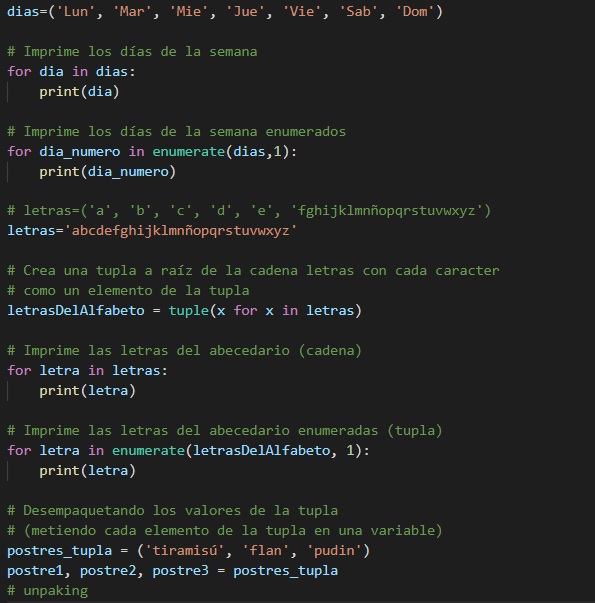
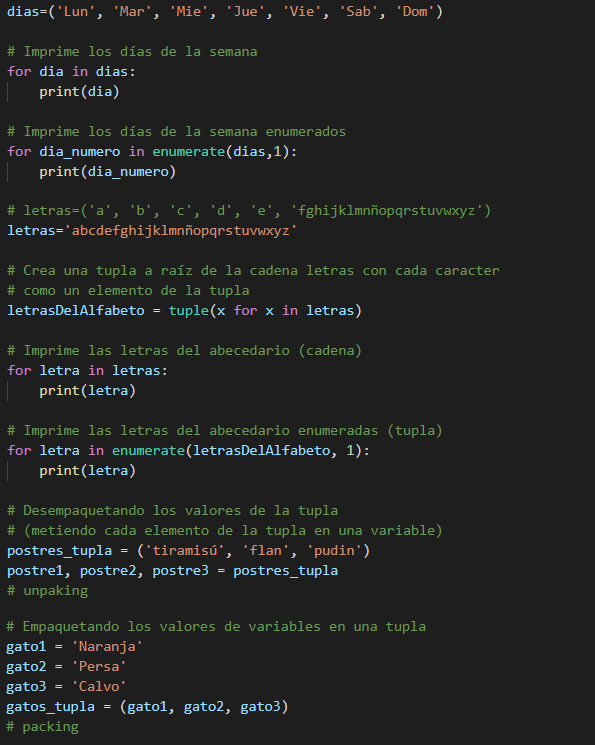
Update apuntes

diff --git a/Pruebas/(54) Arrays y Matrices.py b/Pruebas/(54) Arrays y Matrices.py
@@ -8,7 +8,8 @@ print(f"Mi vector en numpy {vector.astype(str)}") # .astype() para tratar el tip
 # ['6' '7' '1' '2' '3']
 
 print(f"\nEl mayor valor de mi vector es {vector.max()}")
-print(f"Y su posición dentro del vector es {vector.argmax()}") # Teniendo en cuenta que se posicionan del 0 al len(vector)
+print(f"Y su posición dentro del vector es {vector.argmax()}") 
+# Teniendo en cuenta que se posicionan del 0 al len(vector)
 # Máximo valor y posición
 
 print(f"\nEl manor valor de mi vector es {vector.min()}")

diff --git a/Ejercicios de Clase/Trabajo con listas.py b/Ejercicios de Clase/Trabajo con listas.py
@@ -1,0 +1,14 @@
+colores = ['Red', 'Yellow', 'Green']
+colores_alternativos = ['Magenta', 'Blue', 'Pink']
+# Añado a la primera lista, los elementos de la segunda
+colores.extend(colores_alternativos) 
+
+# Ordenar una lista de forma ascendente (por defecto)
+numeros = ['3', '2', '4', '1']
+numeros.sort()
+# ['1', '2', '3', '4']
+
+# Ordenar una lista de forma descencente (especificando)
+numeros.sort(reverse=True)
+# ['4', '3', '2', '1']
+

diff --git a/Ejercicios de Clase/Trabajo con tuplas.py b/Ejercicios de Clase/Trabajo con tuplas.py
@@ -23,6 +23,13 @@ for letra in letras:
 for letra in enumerate(letrasDelAlfabeto, 1):
     print(letra)
 
+# Empaquetando los valores de variables en una tupla
+gato1 = 'Naranja'
+gato2 = 'Persa'
+gato3 = 'Calvo'
+gatos_tupla = (gato1, gato2, gato3)
+# packing
+
 # Desempaquetando los valores de la tupla
 # (metiendo cada elemento de la tupla en una variable)
 postres_tupla = ('tiramisú', 'flan', 'pudin')

diff --git a/Pruebas/(51) Arrays.py b/Pruebas/(51) Arrays.py
@@ -1,7 +1,7 @@
 # Arrays (Arreglos o Vectores)
 
 '''
-- Los arrays son conjuntos de datos (heterogéneos)
+- Los arrays son conjuntos de datos (homogéneo)
 
 - Tienen un orden y pueden ser accedidos por su posición
 

diff --git a/Ejercicios de Clase/Trabajando con Sets.py b/Ejercicios de Clase/Trabajando con Sets.py
@@ -1,0 +1,3 @@
+mi_set = {'1', '1', '1', '2', '2', '3', '3'}
+print(mi_set) # {'3', '2', '1'} Elimina los elementos repetidos
+

diff --git a/Apuntes/Introducción.md b/Apuntes/Introducción.md
@@ -53,7 +53,7 @@ Pincha para ir a la sección:
 >
 >* [<span style="color:Pink">Colecciones de datos II</span>](#colecciones-de-datos-ii)
 >   
->    * [Strings](#string-o-cadenas) [Listas](#listas) [Tuplas](#tuplas)
+>    * [Strings](#string-o-cadenas) [Listas](#listas) [Tuplas](#tuplas) [Sets](#sets-o-conjuntos)
 >
 >* [<span style="color:Pink">Otros</span>](#otros)
 
@@ -483,7 +483,9 @@ El **break** y el **continue** pueden usarse también en **sentencias condiciona
 
 ![32](img/32.png)
 
-Son "variables" con varios valores heterogéneos (del mismo tipo) almacenados 
+Son "conjuntos de variables" de distinto o mismo tipo
+    
+* (Homogéneo = del mismo tipo \\ Heterogéneo = distinto tipo)
 
 En lugar de crear 10 variables, creamos un array con 10 posiciones que almacena esos 10 valores
 
@@ -539,6 +541,7 @@ Si existen varios errores, se ejecutará la excepción del primero (teniendo **p
 
 
 # Colecciones de datos II
+
 ## String o cadenas
 ![39](img/39.png)
 
@@ -563,6 +566,7 @@ cadena[0] = p
 # Error, ya que no puede ser modificada
 # Este error no ocurriría si la colección fuese una lista
 ```
+![62](img/62.png)
 
 * **find()** devuelve **-1** si no existe ese caracter en la cadena
 
@@ -600,6 +604,8 @@ cadena[0] = p
 
     ![53](img/53.png)
 
+![61](img/61.png)
+
 >>[<span style="color:Pink">Pincha aquí para volver al índice</span>](#índice)
 
 
@@ -610,8 +616,14 @@ cadena[0] = p
 
 ![43](img/43.png)
 ![44](img/44.png)
+![67](img/67.png)
+![68](img/68.png)
+![69](img/69.png)
 
 >(**NOTA: al asignarle a cadena = cadena.split(), cadena deja de ser un string y se convierte a lista**)
+
+
+![58](img/58.png)
 
 >>[<span style="color:Pink">Pincha aquí para volver al índice</span>](#índice)
 
@@ -635,12 +647,34 @@ cadena = 'hola'
 # se convierte a una cadena de valores alfanuméricos
 ```
 
-* Ejemplos interesantes de trabajo con tuplas
 
 ![56](img/56.png)
 
 >>[<span style="color:Pink">Pincha aquí para volver al índice</span>](#índice)
 
+## Sets o conjuntos
+
+![57](img/57.png)
+
+Los sets no contienen **elementos repetidos**
+
+![59](img/59.png)
+
+![63](img/63.png)
+![64](img/64.png)
+
+>>[<span style="color:Pink">Pincha aquí para volver al índice</span>](#índice)
+
+## Diccionarios
+
+![60](img/60.png)
+
+>>[<span style="color:Pink">Pincha aquí para volver al índice</span>](#índice)
+
+## Arrays y Matrices
+
+![65](img/65.png)
+![66](img/66.png)
 
 # Otros
 
